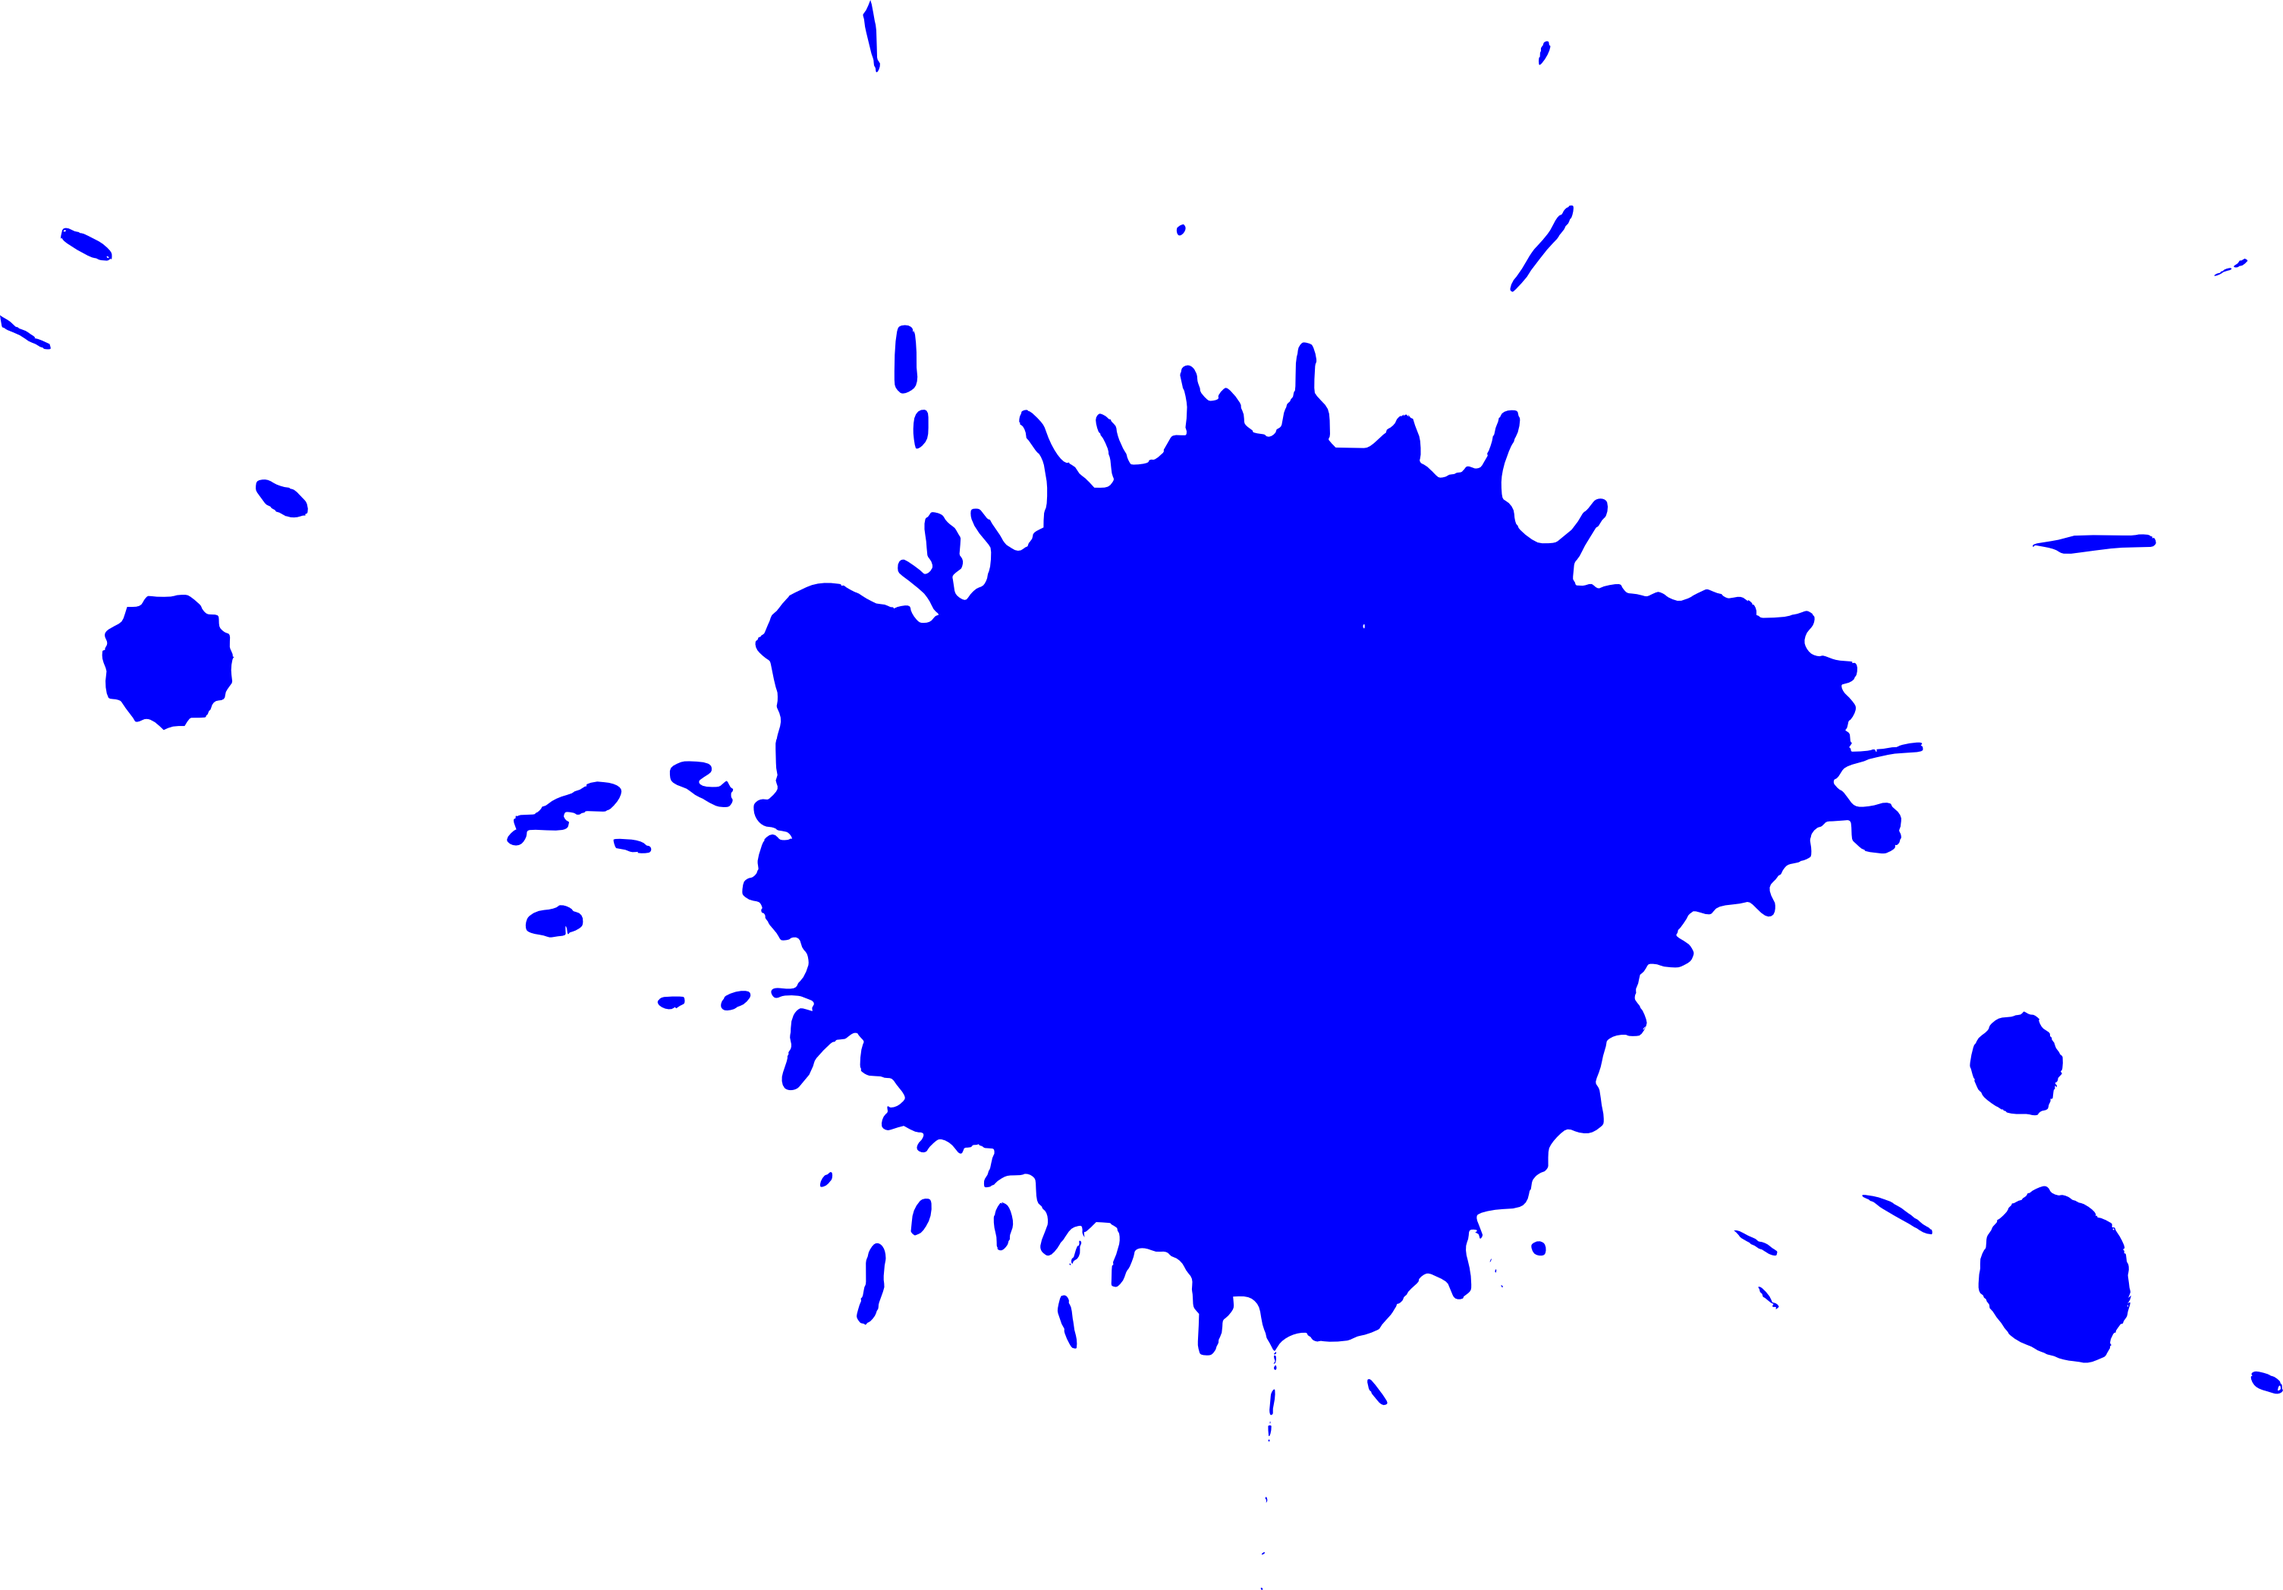
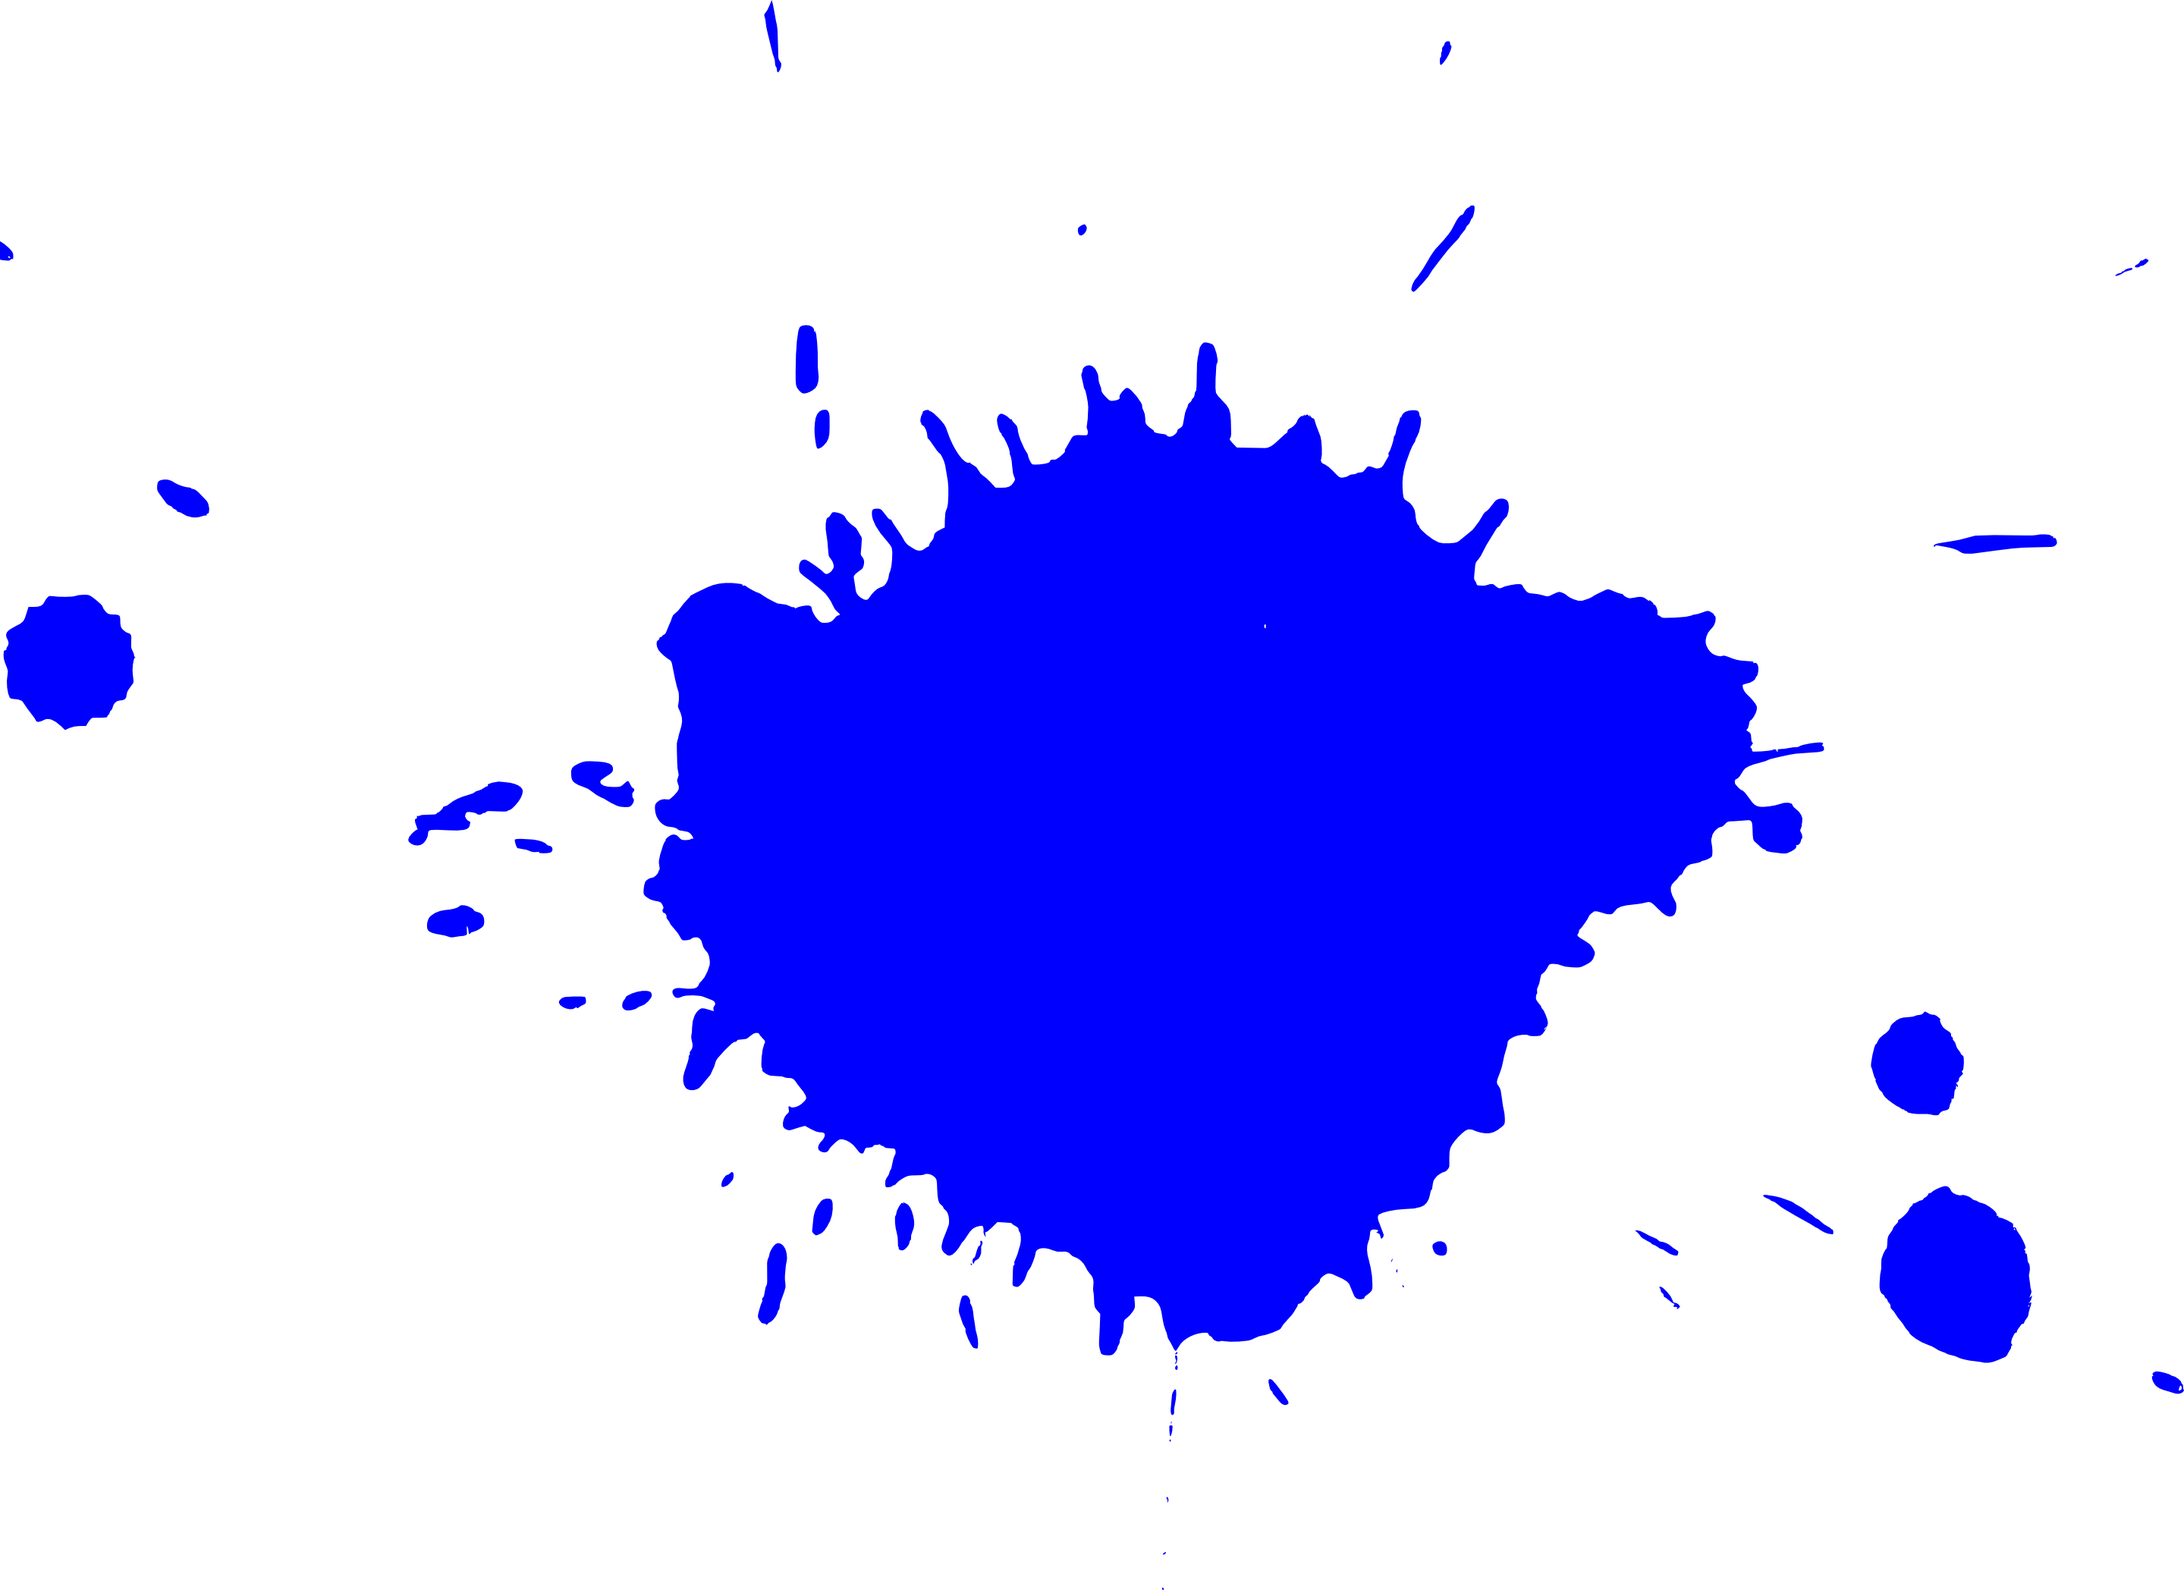
resolution d'un bug sur les taches qui faisait que l'angle de celle ci n'était pas bon quand on rejouait

diff --git a/src/com/pi4/duet/view/game/ObstacleView.java b/src/com/pi4/duet/view/game/ObstacleView.java
@@ -35,8 +35,8 @@ public class ObstacleView extends JPanel {
 		this.setOpaque(false);
 		this.setSize(new Dimension(width, height));
 		this.setLocation(0, 0);
-		this.widthCollision = ballRadius * 7;
-		this.heightCollision = ballRadius * 7;
+		this.widthCollision = ballRadius * 9;
+		this.heightCollision = ballRadius * 9;
 		this.setVisible(true);
 		this.setLayout(null);
 
@@ -58,7 +58,7 @@ public class ObstacleView extends JPanel {
 			for(CollisionView cv : copy.keySet()) {
 				g2d = (Graphics2D) g.create();
 				g2d.clip(polygon);
-				Double angle = collisionsMap.get(cv);
+				Double angle = -collisionsMap.get(cv);
 				
 				// Translation pour centrer l'image
 		        int x = (int) (cv.point.getX() + controller.getCenter().getX() + cv.width / 2);
@@ -126,7 +126,7 @@ public class ObstacleView extends JPanel {
 		LinkedHashMap<CollisionView, Double> copy = (LinkedHashMap<CollisionView, Double>) collisionsMap.clone();
 		for (CollisionView cv : copy.keySet()) {
 			collisionsMap.remove(cv);
-			collisionsMap.put(cv, - Math.abs(copy.get(cv)));				
+			collisionsMap.put(cv,Math.abs(copy.get(cv)));				
 		}
 	}
 
